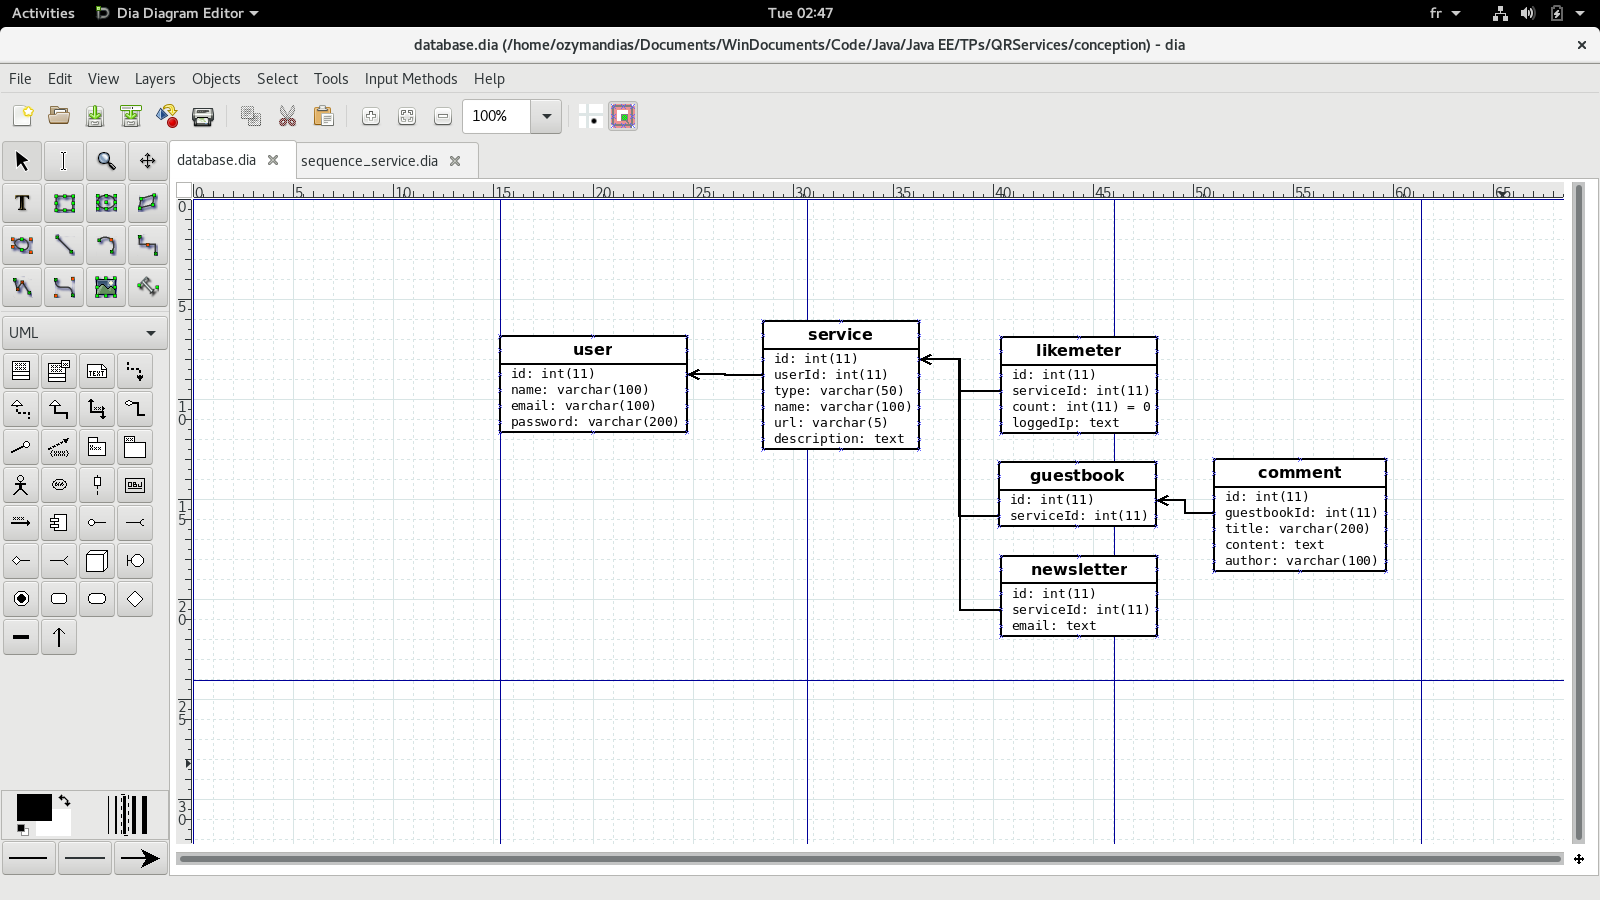
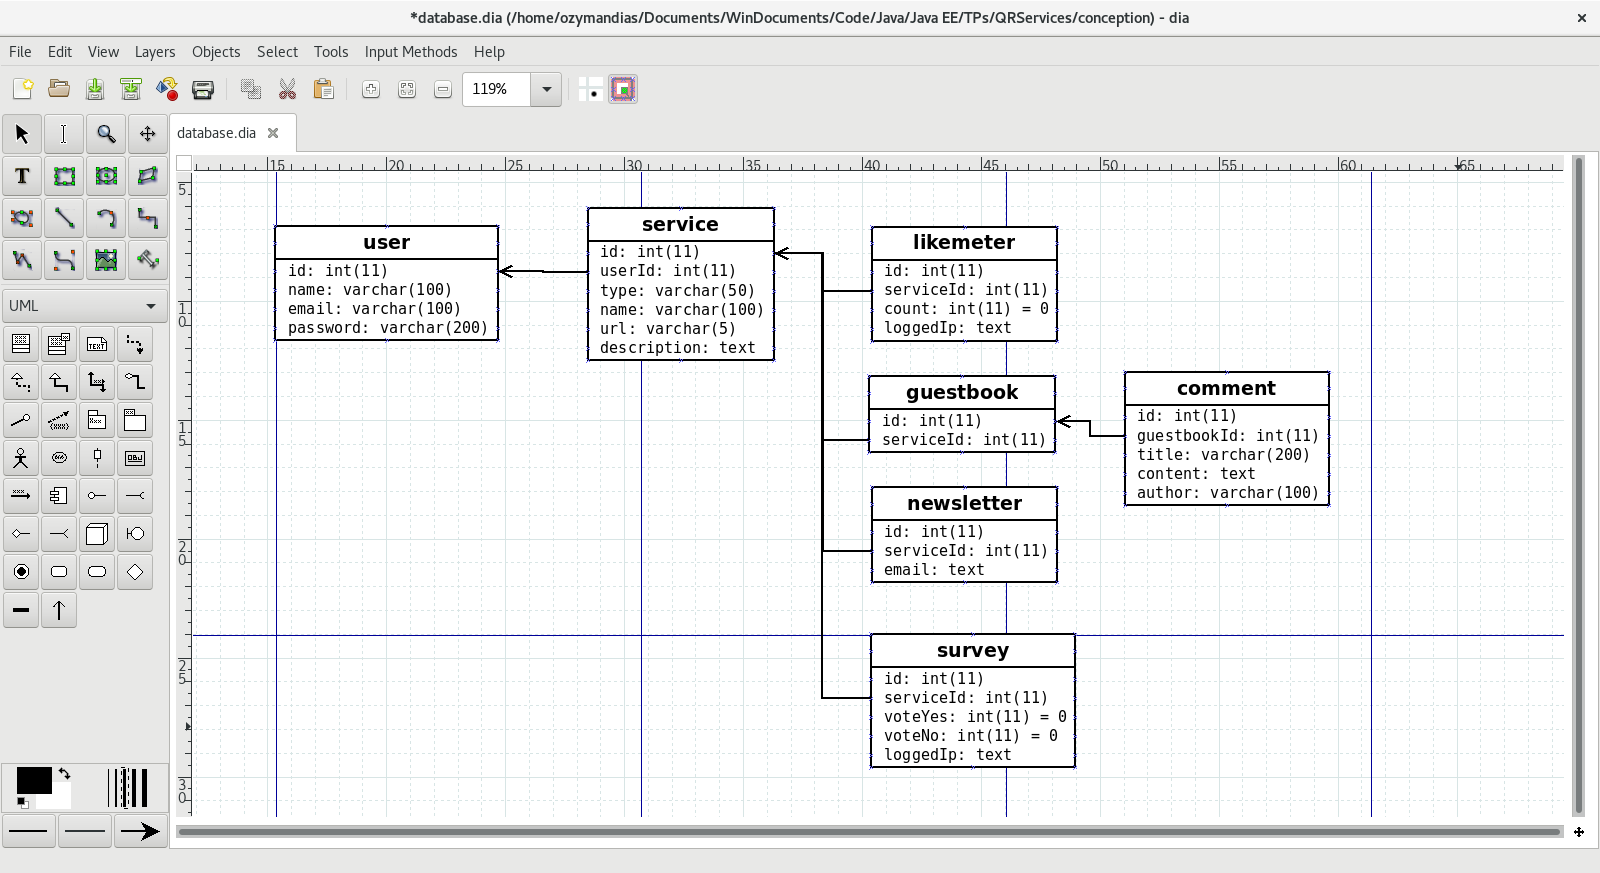
Ajout de la table survey dans le SQL, le MCD et les Beans.

diff --git a/src/main/java/com/lefonddeletang/qrservices/model/beans/SurveyBean.java b/src/main/java/com/lefonddeletang/qrservices/model/beans/SurveyBean.java
@@ -1,0 +1,63 @@
+package com.lefonddeletang.qrservices.model.beans;
+
+import javax.persistence.*;
+
+import java.io.Serializable;
+
+/**
+ * JavaBean représentant un sondage
+ */
+@Entity
+@Table(name="survey")
+public class SurveyBean implements Serializable {
+	private static final long serialVersionUID = 7428431917548750820L;
+	
+	/** Identifiant du sondage **/
+	@Id
+	@GeneratedValue(strategy=GenerationType.IDENTITY)
+	@Column(name="id")
+	private int id;
+	/** Identifiant du service générique associé **/
+	@Column(name="serviceId")
+	private int serviceId;
+	/** Quantité de votes positifs **/
+	@Column(name="voteYes")
+	private int voteYes;
+	/** Quantité de votes négatifs **/
+	@Column(name="voteNo")
+	private int voteNo;
+	/** Concaténation des IP ayant voté **/
+	@Column(name="loggedIp")
+	private String loggedIp;
+	
+	public int getId() {
+		return this.id;
+	}
+	public void setId(int id) {
+		this.id = id;
+	}
+	public int getServiceId() {
+		return this.serviceId;
+	}
+	public void setServiceId(int serviceId) {
+		this.serviceId = serviceId;
+	}
+	public int getVoteYes() {
+		return this.voteYes;
+	}
+	public void setVoteYes(int voteYes) {
+		this.voteYes = voteYes;
+	}
+	public int getVoteNo() {
+		return this.voteNo;
+	}
+	public void setVoteNo(int voteNo) {
+		this.voteNo = voteNo;
+	}
+	public String getLoggedIp() {
+		return this.loggedIp;
+	}
+	public void setLoggedIp(String loggedIp) {
+		this.loggedIp = loggedIp;
+	}
+}
